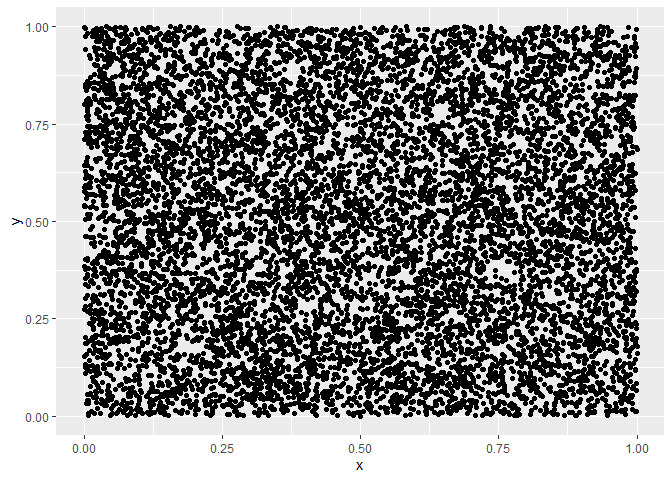
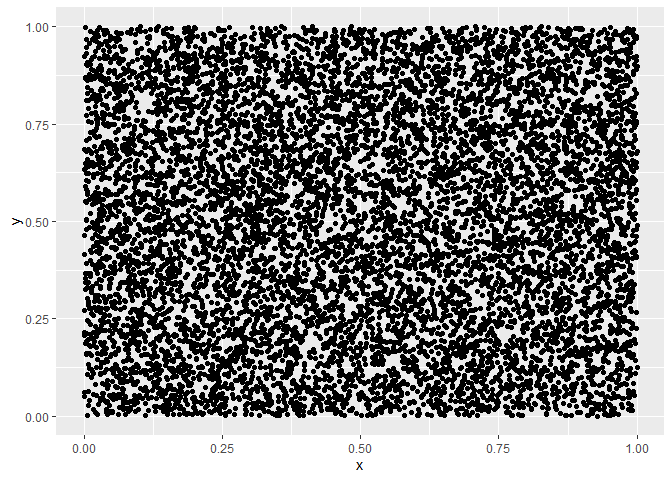
Challenge 7 Update

diff --git a/challenges/c07-monte-carlo-assignment.md b/challenges/c07-monte-carlo-assignment.md
@@ -206,16 +206,16 @@ df_q1
     ## # A tibble: 10,000 × 2
     ##         x     y
     ##     <dbl> <dbl>
-    ##  1 0.525  0.777
-    ##  2 0.424  0.661
-    ##  3 0.464  0.143
-    ##  4 0.0706 0.905
-    ##  5 0.210  0.960
-    ##  6 0.0934 0.289
-    ##  7 0.186  0.206
-    ##  8 0.482  0.521
-    ##  9 0.352  0.192
-    ## 10 0.520  0.145
+    ##  1 0.559  0.986
+    ##  2 0.558  0.541
+    ##  3 0.0482 0.308
+    ##  4 0.0507 0.212
+    ##  5 0.525  0.565
+    ##  6 0.482  0.879
+    ##  7 0.539  0.271
+    ##  8 0.945  0.166
+    ##  9 0.0664 0.806
+    ## 10 0.590  0.930
     ## # … with 9,990 more rows
 
 ``` r
@@ -240,6 +240,47 @@ df_q1
     ##   <dbl> <dbl>
     ## 1  3.14  1.64
 
+``` r
+set.seed(101)
+
+q99 <- qnorm( 1 - (1 - 0.99) / 2 )
+
+df_q1_sampled <- 
+  map_dfr(
+  c(10, 100, 1000, 1e4, 1e5, 1e6, 1e7, 1e8),
+  function(n_samples) {
+   tibble(
+    x = runif(n_samples, min = 0, max = 1), 
+    y = runif(n_samples, min = 0, max = 1)
+  ) %>% 
+  mutate(stat = (x^2 + y^2 <= 1)) %>% 
+  summarize(
+    count_total = n(), 
+    mean = mean(stat)*4, 
+    sd = sd(stat)*4
+    ) %>% 
+  mutate( 
+    lo = mean - q99 * sd / sqrt(n_samples),
+    hi = mean + q99 * sd / sqrt(n_samples)
+    )
+  }
+)
+
+df_q1_sampled
+```
+
+    ## # A tibble: 8 × 5
+    ##   count_total  mean    sd    lo    hi
+    ##         <int> <dbl> <dbl> <dbl> <dbl>
+    ## 1          10  2.8   1.93  1.23  4.37
+    ## 2         100  2.8   1.84  2.33  3.27
+    ## 3        1000  3.11  1.66  2.98  3.25
+    ## 4       10000  3.14  1.64  3.10  3.18
+    ## 5      100000  3.14  1.64  3.13  3.16
+    ## 6     1000000  3.14  1.64  3.14  3.15
+    ## 7    10000000  3.14  1.64  3.14  3.14
+    ## 8   100000000  3.14  1.64  3.14  3.14
+
 ### **q2** Using your data in `df_q1`, estimate $\pi$.
 
 ``` r
@@ -248,7 +289,7 @@ pi_est <- df_q1$mean
 pi_est
 ```
 
-    ## [1] 3.142
+    ## [1] 3.1388
 
 # Quantifying Uncertainty
 
@@ -262,13 +303,13 @@ to assess your $\pi$ estimate.
 ### **q3** Using a CLT approximation, produce a confidence interval for your estimate of $\pi$. Make sure you specify your confidence level. Does your interval include the true value of $\pi$? Was your chosen sample size sufficiently large so as to produce a trustworthy answer?
 
 ``` r
-q95 <- qnorm( 1 - (1 - 0.95) / 2 )
+q99 <- qnorm( 1 - (1 - 0.99) / 2 )
 
 df_clt <- df_q1 %>% 
   mutate(
     se = sd / sqrt(n),
-    lo = mean - q95 * se,
-    hi = mean + q95 * se
+    lo = mean - q99 * se,
+    hi = mean + q99 * se
   ) 
 df_clt
 ```
@@ -276,16 +317,80 @@ df_clt
     ## # A tibble: 1 × 5
     ##    mean    sd     se    lo    hi
     ##   <dbl> <dbl>  <dbl> <dbl> <dbl>
-    ## 1  3.14  1.64 0.0164  3.11  3.17
+    ## 1  3.14  1.64 0.0164  3.10  3.18
+
+``` r
+## NOTE: No need to change this!
+set.seed(101)
+
+
+# Visualize
+df_q1_sampled %>%
+  ggplot(aes(count_total, mean)) +
+   geom_hline(
+    data = df_q1,
+    mapping = aes(yintercept = mean),
+    size = 0.1
+  ) +
+ 
+  geom_errorbar(aes(
+    ymin = lo,
+    ymax = hi,
+    color = (lo <= pi) & (pi <= hi)
+  )) +
+  geom_point() +
+  scale_x_log10() +
+  scale_color_discrete(name = "Is pi within the confidence interval?") +
+  theme(legend.position = "bottom") +
+  labs(
+    x = "Samples",
+    y = "Mean",
+    title = "Estimations of Pi"
+  )
+```
+
+![](c07-monte-carlo-assignment_files/figure-gfm/confidence%20intervals-1.png)<!-- -->
+
+``` r
+## NOTE: No need to change this!
+set.seed(101)
+
+
+# Visualize
+tail(df_q1_sampled, 4) %>%
+  ggplot(aes(count_total, mean)) +
+   geom_hline(
+    data = df_q1,
+    mapping = aes(yintercept = pi),
+    size = 0.1
+  ) +
+ 
+  geom_errorbar(aes(
+    ymin = lo,
+    ymax = hi,
+    color = (lo <= pi) & (pi <= hi)
+  )) +
+  geom_point() +
+  scale_x_log10() +
+  scale_color_discrete(name = "Is pi within the confidence interval?") +
+  theme(legend.position = "bottom") +
+  labs(
+    x = "Samples",
+    y = "Mean",
+    title = "Estimations of Pi"
+  )
+```
+
+![](c07-monte-carlo-assignment_files/figure-gfm/confidence%20intervals%202-1.png)<!-- -->
 
 **Observations**:
 
 - Does your interval include the true value of $\pi$?
   - Yes, the interval is \~3.095 - \~3.16
 - What confidence level did you choose?
-  - 95%
+  - 99%
 - Was your sample size $n$ large enough? Why do you say that?
-  - Yes, my sample size of 10000 was larger enough because the
+  - Yes, my initial sample size of 10000 was larger enough because the
     confidence interval consistently contained the value of $\pi$.
   - The lower the value of n, the larger the confidence interval is.
 
